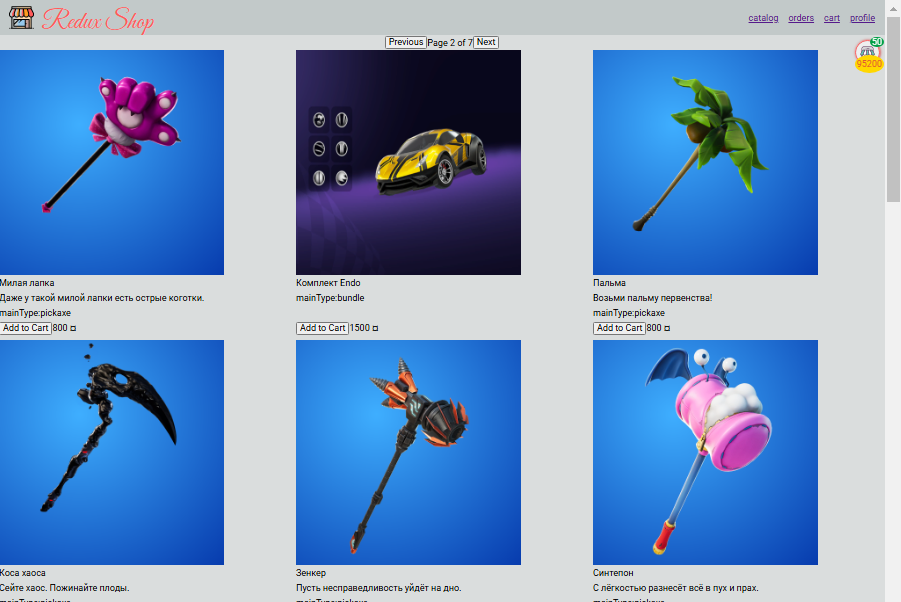
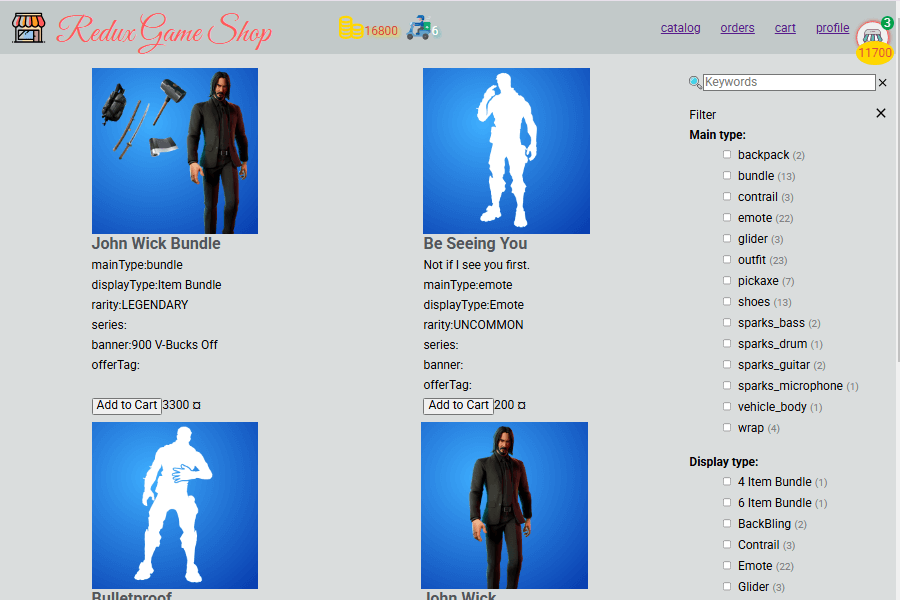
change 02.redux.shop

diff --git a/src/services/projectsDataRu.ts b/src/services/projectsDataRu.ts
@@ -1,18 +1,29 @@
 import { IProject } from '../interfaces/IProject';
 
+/*
+200 x 140 - small
+900 x 600 - medium
+*/
 export const projectsDataRu: IProject[] = [
   {
     code: '02.redux.shop',
     imageSmall: 'images/projects/02.redux.shop_small.png',
     imageMedium: 'images/projects/02.redux.shop_medium.png',
     images: [
-      'images/projects/02.redux.shop_02.jpg',
-      'images/projects/02.redux.shop_03.jpg',
+      'images/projects/02.redux_01.jpg',
+      'images/projects/02.redux_02.jpg',
+      'images/projects/02.redux_03.jpg',
+      'images/projects/02.redux_04.jpg',
     ],
     nameShort: 'redux.shop',
     name: 'Redux Shop',
     shortDescription: 'Магазин на Redux',
-    fullDescription: ['Магазин на React, Typescript, Redux .', 'CSS.'],
+    fullDescription: [
+      'Магазин на React, Typescript, Redux .',
+      'Магазин на основе АПИ от игры fortniteapi.io.',
+      'Покупки в каталоге товаров попадают в корзину. Корзина после подтверждения становится заказом. Есть список заказов. Заказ может быть принят или отменен. При отмене заказа средства возвращаются. Корзина и история заказов хранится в LocalStorage.',
+      'Средства можно добавить на странице профиля.',
+    ],
     technology: [
       { image: 'images/technology/react32.png', name: 'React' },
       { image: 'images/technology/ts32.png', name: 'TypeScript' },
@@ -28,15 +39,16 @@ export const projectsDataRu: IProject[] = [
     ],
     comment: '',
     state: 'inProgress',
-    demo: '',
+    demo: 'https://02-redux-shop.vercel.app/',
     repo: 'https://github.com/abratsiuk/02.redux.shop',
     technologyDescription: [
       'Техническое описание:',
       '- используется React и Typescript',
       '- используется Redux и Redux Thunk, не используется Redux Toolkit',
       '- axios для запросов на сервер и API fortniteapi.io',
+      '- фильтрация каталога товаров на фронтенде',
       '- Sass и БЕМ методология для стилей, без CSS библиотек',
-      '- стек технологий 2021 года: cборка CRA и Redux 4, React 17 (нужно: nvm use 16.20.2)',
+      '- стек технологий 2021 года: cборка CRA и Redux 4, React 17',
       '- в перспективе будет еще 1 проект: этот же проект в последних версиях и с Redux Toolkit',
     ],
   },
